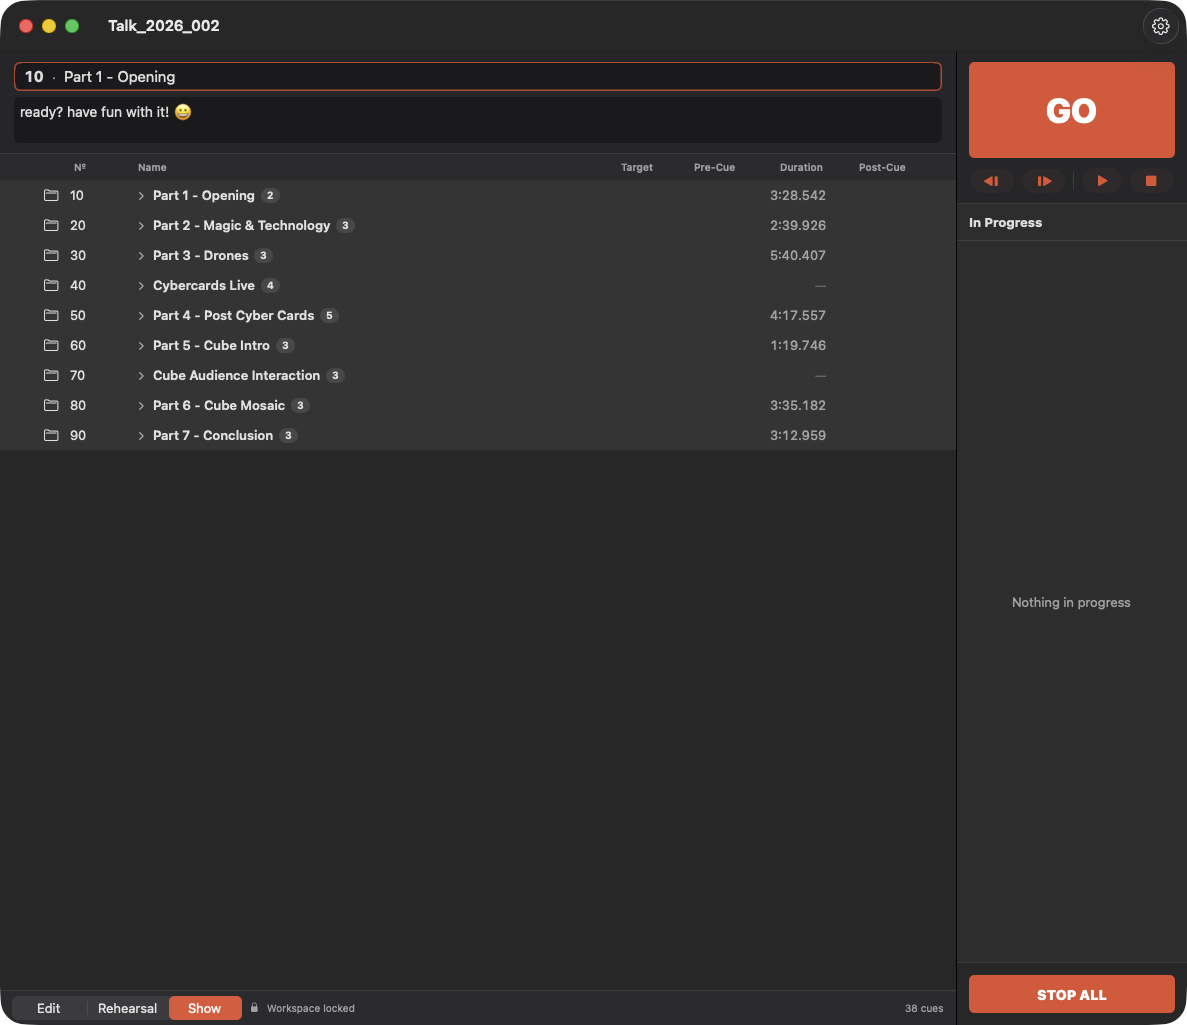
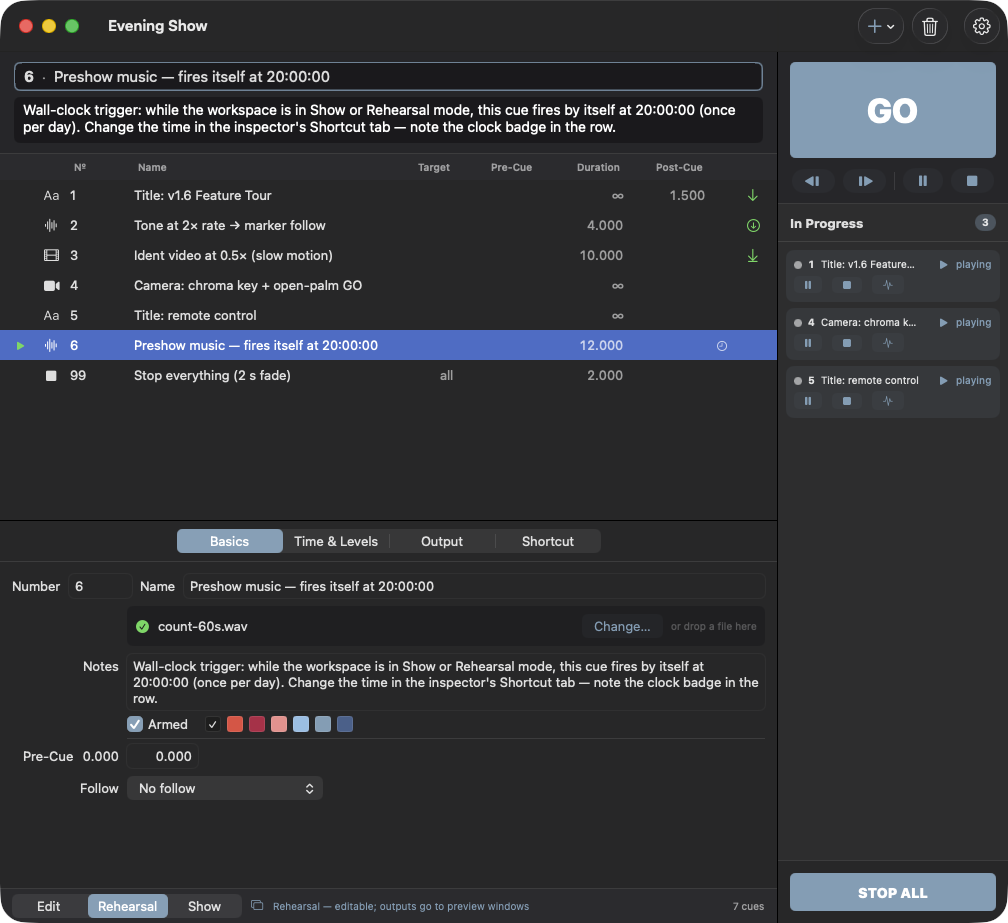
dev: v1.7.0 — fresh screenshots, README gallery, version bump
New hero screenshot (v1.7 UI: cue list with wall-clock badge, In
Progress meters, mode strip), a stage-display multiview shot captured
live (program mirror under red tally showing an open-palm gesture GO
mid-hold, standing-by green, running meters — staged by driving the app
over its own OSC remote), and the web-remote phone page. README places
them at the matching feature bullets and folds the multiview styling
into the stage-display bullet. App version 1.7.0 (build 11) — this
cycle added features (multiview display, gesture vocabulary + sensor
mode, Effects tab, StageWand feedback), so a minor bump, not a patch.

diff --git a/README.md b/README.md
@@ -96,17 +96,24 @@ concurrency), SwiftUI + AppKit, AVFoundation. No third-party dependencies.
   double-tap STOP ALL, standing-by cue + notes) at a QR code you scan
   from the settings panel. All zero-config,
   zero-dependency, off by default, LAN-only.
-- **Stage display** — a performer-facing confidence monitor: fullscreen on
-  any spare display in Show mode (never over the operator's own screen —
-  it floats there instead, and ⌘⎋ always exits Show mode), a floating
-  resizable window in Rehearsal. Fully editable pane layout (drag, resize,
-  snap on a 16:9 canvas): clock, show timer, the standing-by cue huge, its
-  notes, running cues with time remaining, the gesture hold-progress bar —
-  and **live program panes** that mirror any number of video outputs
-  (16:9-locked, one decode, an extra layer, attach and detach mid-playback
-  like a video patchbay). Never a cue target. Any output group can also
-  become its own **floating resizable window** in every mode — a prompter
-  feed on the operator screen during a real show.
+
+  <p align="center"><img src="Support/WebRemote_screenshot.png" width="300" alt="The web remote phone page: standing-by cue, giant GO, prev/next, STOP ALL"></p>
+- **Stage display** — a performer-facing confidence monitor styled like a
+  broadcast **multiview**: labeled tiles, tally borders (red = a mirror is
+  live, green = standing by), ON-AIR-style clock and show-timer tiles.
+  Fullscreen on any spare display in Show mode (never over the operator's
+  own screen — it floats there instead, and ⌘⎋ always exits Show mode), a
+  floating resizable window in Rehearsal. Fully editable pane layout
+  (drag, resize, snap on a 16:9 canvas, one-press multiview grid reset):
+  clock, show timer, the standing-by cue huge, its notes, running cues
+  with meters, the gesture hold-progress bar — and **live program panes**
+  that mirror any number of video outputs (16:9-locked, one decode, an
+  extra layer, attach and detach mid-playback like a video patchbay).
+  Never a cue target. Any output group can also become its own **floating
+  resizable window** in every mode — a prompter feed on the operator
+  screen during a real show.
+
+  <p align="center"><img src="Support/StageDisplay_screenshot.png" width="760" alt="Stage display multiview: clock, standing-by, live program mirror with tally, notes, running cues"></p>
 - **Preflight** — one click (and automatically on entering Show mode) checks
   the whole cue list against the rig: missing media, unassigned or
   display-less output groups, missing camera permission, disconnected audio
